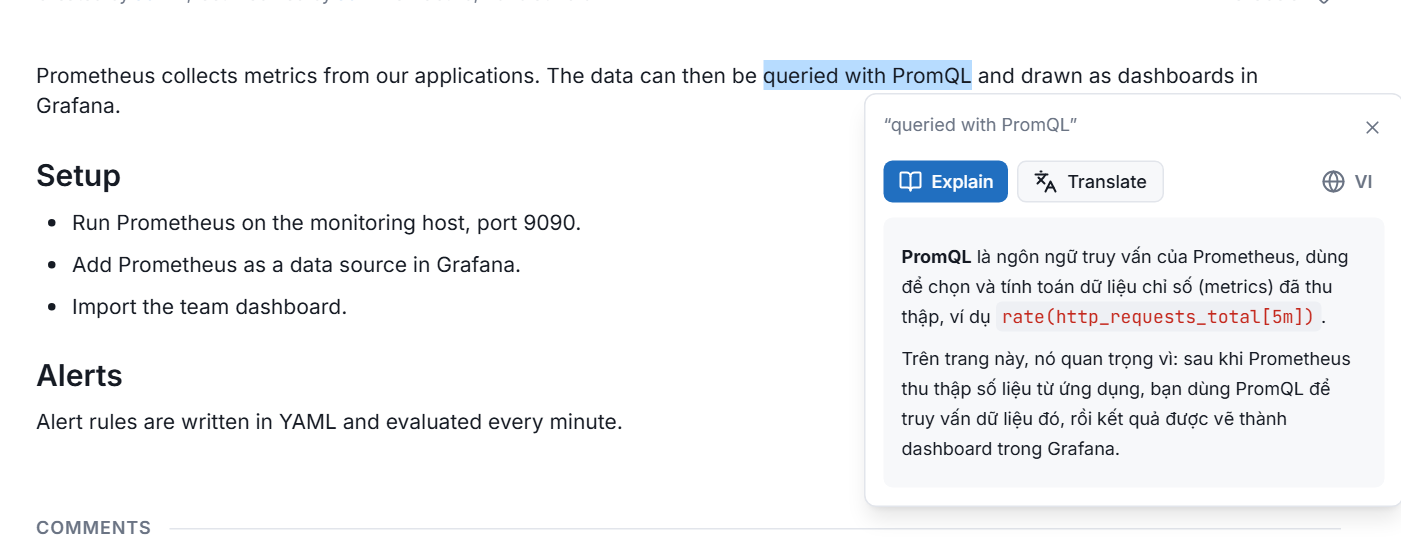
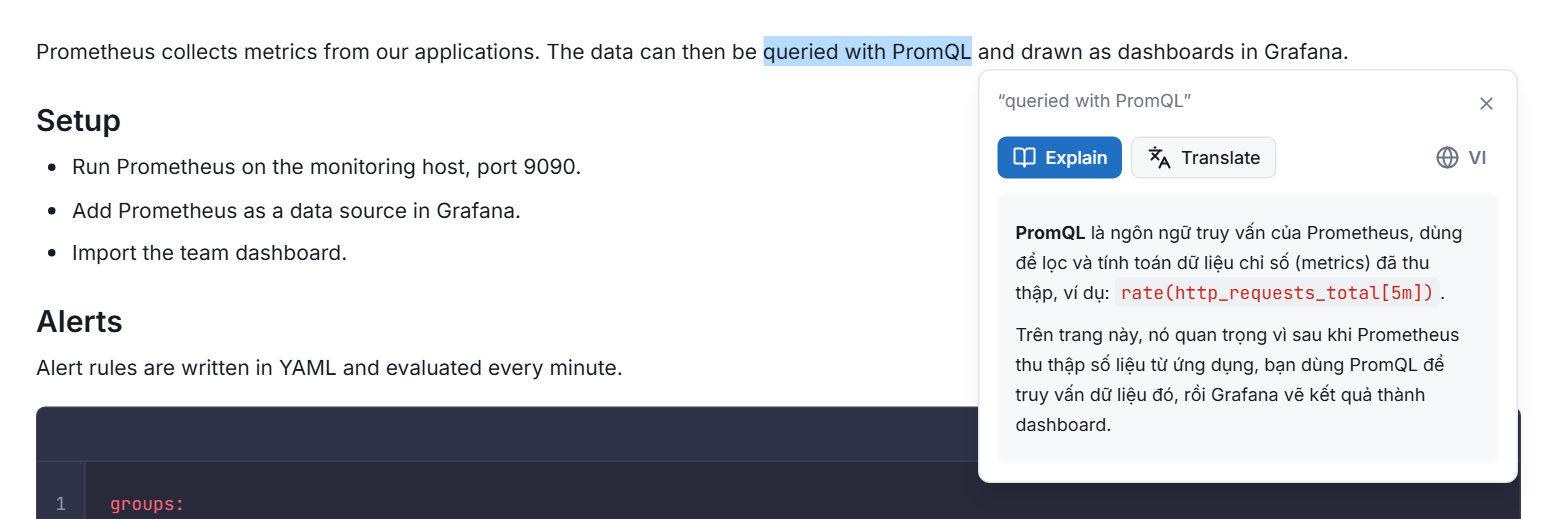
docs(help): refresh every Help screenshot from the current interface
Recaptured from a throwaway Product Engineering space (with the AI features run
against a live connection), fixed captions that no longer matched, and
rebuilt the assistant's copy of the Help text.

diff --git a/frontend/components/help/help-content.vi.tsx b/frontend/components/help/help-content.vi.tsx
@@ -47,6 +47,10 @@ export const sectionsVi: HelpSection[] = [
           theo <strong>ý nghĩa</strong>, kể cả khi không trùng từ nào với bạn gõ. Nó hiện chưa
           tìm trong tên tệp đính kèm hay nội dung tệp đính kèm, và chỉ hiển thị những kết quả
           bạn có quyền xem. Không có bộ lọc theo ngày, space, hay tác giả.
+          Tìm kiếm cũng liệt kê <strong>các trang của ứng dụng</strong> ở mục <strong>Đi tới</strong> -
+          gõ <Code>đổi mật khẩu</Code> để mở thẳng form mật khẩu trong tài khoản, hoặc{" "}
+          <Code>quản lý user</Code> để tới Quản trị &gt; Users. Bắt đầu bằng <Code>:</Code> để dùng lệnh: <Code>:help</Code> mở trang hướng dẫn này (thêm chữ, như <Code>:help đổi mật khẩu</Code>, để tìm trong các hướng dẫn), <Code>:account</Code>, <Code>:password</Code>, <Code>:users</Code>, <Code>:chat</Code>, và <Code>:ask câu hỏi</Code> để nhờ AI trả lời. Lối tắt Quản trị chỉ hiện khi tài khoản
+          của bạn được phép mở.
         </Callout>
 
         <p className="mt-3">
@@ -564,14 +568,14 @@ export const sectionsVi: HelpSection[] = [
     body: (
       <>
         <p>
-          Bên dưới tiêu đề của một trang, thanh công cụ của trang mang theo một số
+          Bên trên tiêu đề của một trang, thanh công cụ của trang mang theo một số
           thao tác nhỏ, tách biệt với việc chỉnh sửa:
         </p>
 
         <Screenshot
           src="/help/page-engagement-row.png"
-          alt="Đầu một trang: breadcrumb, tiêu đề, các nút Create/Edit/Save for later/Pin page/Share, và nút Like ngay dưới tiêu đề"
-          caption="Create/Edit/Save for later/Pin page/Share ở trên cùng, Like ngay dưới tiêu đề."
+          alt="Đầu một trang: breadcrumb, các nút Create, Edit, TL;DR, Save for later, Pin page và Share, rồi tiêu đề cùng thông tin trang và nhãn trên cùng một dòng"
+          caption="Create, Edit, TL;DR, Save for later, Pin page và Share ở trên cùng; Like nằm phía trên phần bình luận."
         />
 
         <ul className="list-disc pl-5 space-y-2 text-sm">
@@ -833,8 +837,8 @@ export const sectionsVi: HelpSection[] = [
 
         <Screenshot
           src="/help/page-actions-menu.png"
-          alt="Menu More page actions đang mở, liệt kê Move page, Page history, Labels, Attachments, View, Export, và Delete page"
-          caption="Move page, Page history, Labels, Attachments, View, Export, Delete page."
+          alt="Menu More page actions đang mở, liệt kê Move page, Page history, Page access, Labels, Attachments, View, Export, và Delete page"
+          caption="Move page, Page history, Page access, Labels, Attachments, View, Export, Delete page."
         />
 
         <ul className="list-disc pl-5 space-y-1.5 text-sm">
@@ -2456,8 +2460,8 @@ export const sectionsVi: HelpSection[] = [
         <p className="mt-3 font-semibold text-foreground">1. Cài đặt hệ thống toàn cục:</p>
         <Screenshot
           src="/help/admin-settings-general.png"
-          alt="Bảng cài đặt General Workspace: các trường Site Name và Session Lifetime, mỗi trường đánh dấu kế thừa từ môi trường cho đến khi được ghi đè"
-          caption="General workspace - Site Name và Session Lifetime, kế thừa cho đến khi bị ghi đè."
+          alt="Cài đặt General & Sessions: Workspace identity (tên workspace và cách hiển thị trên top bar) và các mức Session lifetime, mỗi mục đánh dấu kế thừa từ môi trường cho đến khi được ghi đè"
+          caption="General & Sessions - tên workspace và thời hạn phiên, kế thừa cho đến khi bị ghi đè."
         />
         <ul className="list-disc pl-5 space-y-1.5 text-sm">
           <li>
@@ -2544,8 +2548,8 @@ export const sectionsVi: HelpSection[] = [
 
         <Screenshot
           src="/help/permissions-global-access.png"
-          alt="Tab Global access của Edit user: tóm tắt Currently granted, sau đó bốn dòng quyền (Create spaces, Manage users, Manage groups, System administrator) mỗi dòng có huy hiệu Active/Disabled và menu thả xuống Inherit from groups"
-          caption="Global access override của một tài khoản - mỗi trong bốn quyền, Active hoặc Disabled, theo từng tài khoản."
+          alt="Tab Global access của Edit user: tóm tắt Currently granted, sau đó System administrator cùng Create spaces, Manage users, Manage groups và Manage issues bên dưới, mỗi dòng có huy hiệu Active/Disabled và menu thả xuống Inherit from groups"
+          caption="Global access override của một tài khoản - mỗi quyền Active hoặc Disabled, theo từng tài khoản."
         />
 
         <p className="mt-4 font-semibold text-foreground">1. Vai trò tài khoản:</p>
@@ -3620,7 +3624,7 @@ export const sectionsVi: HelpSection[] = [
         </p>
         <Screenshot
           src="/help/ai-admin-skills.png"
-          alt="Quản lý skill với bốn thẻ: Tóm tắt trang, Tạo page bằng AI, Giải thích phần đã chọn và Dịch phần đã chọn"
+          alt="Quản lý skill với sáu thẻ: Tóm tắt trang, Tạo page bằng AI, Giải thích phần đã chọn, Dịch phần đã chọn, Trợ lý soạn thảo, và Nhãn và page liên quan"
           caption="Quản lý skill: mỗi tính năng AI một thẻ. Bấm vào thẻ để xem hoặc sửa hướng dẫn."
         />
         <Callout variant="tip" title="Nhẹ cho máy chủ">

diff --git a/frontend/components/help/help-content.en.tsx b/frontend/components/help/help-content.en.tsx
@@ -47,6 +47,10 @@ export const sectionsEn: HelpSection[] = [
           <strong>meaning</strong>, even when they share none of your words. It does not
           currently search attachment filenames or attachment content, and only ever shows
           results you have permission to see. There are no date, space, or author filters.
+          Search also lists <strong>app pages</strong> under <strong>Go to</strong> - type{" "}
+          <Code>change password</Code> to jump to your account&apos;s password form, or{" "}
+          <Code>manage users</Code> for Administration &gt; Users. Start with <Code>:</Code> for commands: <Code>:help</Code> opens this guide (add words, as in <Code>:help change password</Code>, to search the guides), <Code>:account</Code>, <Code>:password</Code>, <Code>:users</Code>, <Code>:chat</Code>, and <Code>:ask your question</Code> for an AI answer. Administration shortcuts
+          only appear if your account may open them.
         </Callout>
 
         <p className="mt-3">
@@ -560,14 +564,14 @@ export const sectionsEn: HelpSection[] = [
     body: (
       <>
         <p>
-          Below a page&apos;s title, the page toolbar carries a small set of actions
+          Above a page&apos;s title, the page toolbar carries a small set of actions
           separate from editing:
         </p>
 
         <Screenshot
           src="/help/page-engagement-row.png"
-          alt="The top of a page: breadcrumb, title, Create/Edit/Save for later/Pin page/Share buttons, and page metadata with labels on the same line"
-          caption="Create/Edit/Save for later/Pin page/Share along the top, Like just below the title."
+          alt="The top of a page: breadcrumb, the Create, Edit, TL;DR, Save for later, Pin page and Share buttons, then the title and page metadata with labels on the same line"
+          caption="Create, Edit, TL;DR, Save for later, Pin page and Share along the top; Like sits above the comments."
         />
 
         <ul className="list-disc pl-5 space-y-2 text-sm">
@@ -829,8 +833,8 @@ export const sectionsEn: HelpSection[] = [
 
         <Screenshot
           src="/help/page-actions-menu.png"
-          alt="The More page actions menu open, listing Move page, Page history, Labels, Attachments, View, Export, and Delete page"
-          caption="Move page, Page history, Labels, Attachments, View, Export, Delete page."
+          alt="The More page actions menu open, listing Move page, Page history, Page access, Labels, Attachments, View, Export, and Delete page"
+          caption="Move page, Page history, Page access, Labels, Attachments, View, Export, Delete page."
         />
 
         <ul className="list-disc pl-5 space-y-1.5 text-sm">
@@ -2374,8 +2378,8 @@ export const sectionsEn: HelpSection[] = [
         <p className="mt-3 font-semibold text-foreground">1. Global Instance Settings:</p>
         <Screenshot
           src="/help/admin-settings-general.png"
-          alt="The General Workspace settings panel: Site Name and Session Lifetime fields, each marked inherited from environment until overridden"
-          caption="General workspace - Site Name and Session Lifetime, inherited until overridden."
+          alt="The General & Sessions settings: Workspace identity (workspace name and how it looks in the top bar) and Session lifetime presets, each marked inherited from environment until overridden"
+          caption="General & Sessions - workspace name and session lifetime, inherited until overridden."
         />
         <ul className="list-disc pl-5 space-y-1.5 text-sm">
           <li>
@@ -2453,8 +2457,8 @@ export const sectionsEn: HelpSection[] = [
 
         <Screenshot
           src="/help/permissions-global-access.png"
-          alt="The Global access tab of Edit user: a Currently granted summary, then four permission rows (Create spaces, Manage users, Manage groups, System administrator) each with an Active/Disabled badge and an Inherit from groups dropdown"
-          caption="One account's Global access overrides - each of the four permissions, Active or Disabled, per-account."
+          alt="The Global access tab of Edit user: a Currently granted summary, then System administrator with Create spaces, Manage users, Manage groups and Manage issues beneath it, each with an Active/Disabled badge and an Inherit from groups dropdown"
+          caption="One account's Global access overrides - each permission Active or Disabled, per account."
         />
 
         <p className="mt-4 font-semibold text-foreground">1. Account roles:</p>
@@ -3491,7 +3495,7 @@ export const sectionsEn: HelpSection[] = [
         </p>
         <Screenshot
           src="/help/ai-admin-skills.png"
-          alt="Skill management with four cards: Page summary, Create page with AI, Explain a selection and Translate a selection"
+          alt="Skill management with six cards: Page summary, Create page with AI, Explain a selection, Translate a selection, Writing assistant, and Labels and related pages"
           caption="Skill management: one card per AI feature. Click a card to read or edit its instructions."
         />
         <Callout variant="tip" title="Light on this server">
